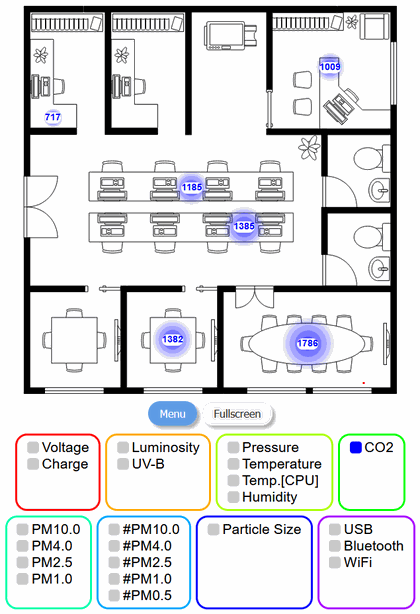
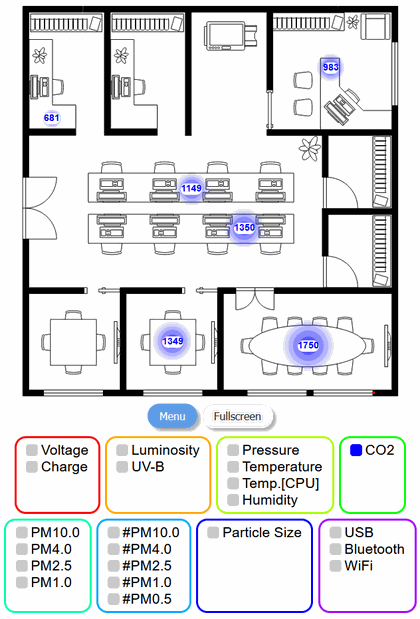
Business: new floor plan and its readings
The redrawn plan reads 681, 983, 1149, 1350, 1349 and 1750 ppm (was 717,
1009, 1185, 1385, 1382 and 1786), with storage in place of the two
washrooms. Alt text and the paragraph quoting the numbers follow it. The
source is 632 px wide, so the largest size is now 632 instead of 635.

diff --git a/business.html b/business.html
@@ -102,21 +102,21 @@
     <div class="sci-split">
       <div class="sci-fig-wrap sci-fig-wrap--wide">
           <picture>
-            <source type="image/webp" sizes="(min-width:900px) 40vw, 88vw" srcset="assets/img/biz-floorplan-420.webp 420w, assets/img/biz-floorplan-620.webp 620w, assets/img/biz-floorplan-635.webp 635w">
+            <source type="image/webp" sizes="(min-width:900px) 40vw, 88vw" srcset="assets/img/biz-floorplan-420.webp 420w, assets/img/biz-floorplan-620.webp 620w, assets/img/biz-floorplan-632.webp 632w">
             <img class="sci-fig" src="assets/img/biz-floorplan-620.png" loading="lazy"
-                 decoding="async" sizes="(min-width:900px) 40vw, 88vw" srcset="assets/img/biz-floorplan-420.png 420w, assets/img/biz-floorplan-620.png 620w, assets/img/biz-floorplan-635.png 635w" alt="A floor plan of an office with a carbon dioxide reading over each space: 717 ppm in a private office, 1009 in a second, 1185 and 1385 over two rows of open-plan desks, 1382 in a small meeting room, and 1786 ppm in the boardroom.">
+                 decoding="async" sizes="(min-width:900px) 40vw, 88vw" srcset="assets/img/biz-floorplan-420.png 420w, assets/img/biz-floorplan-620.png 620w, assets/img/biz-floorplan-632.png 632w" alt="A floor plan of an office with a carbon dioxide reading over each space: 681 ppm in a private office, 983 in a corner office, 1149 and 1350 over two rows of open-plan desks, 1349 in a small meeting room, and 1750 ppm in the boardroom.">
           </picture>
       </div>
       <div class="sci-body">
         <p class="eyebrow">One floor, one afternoon</p>
         <h2 id="floorplan-h">The problem has an address.</h2>
         <p>This is a real office plan with a carbon dioxide reading over each space. The private
-          office on the left sits at 717&nbsp;ppm, close to outdoor air. The boardroom reads
-          1,786&nbsp;ppm.</p>
+          office on the left sits at 681&nbsp;ppm, close to outdoor air. The boardroom reads
+          1,750&nbsp;ppm.</p>
         <p>That gap is the whole argument. Both rooms are on the same floor, the same air handler
           and the same building management system, and one of them is more than twice as loaded as
           the other. A single sensor in a corridor would have reported the average and told you
-          nothing. The open-plan desks at 1,185 and 1,385&nbsp;ppm are the interesting middle: not
+          nothing. The open-plan desks at 1,149 and 1,350&nbsp;ppm are the interesting middle: not
           alarming, but past the point where
           <a href="science.html#co2">decision-making measurably degrades</a>.</p>
         <p>Nothing about that is visible, and nobody in the boardroom is going to report it. They
